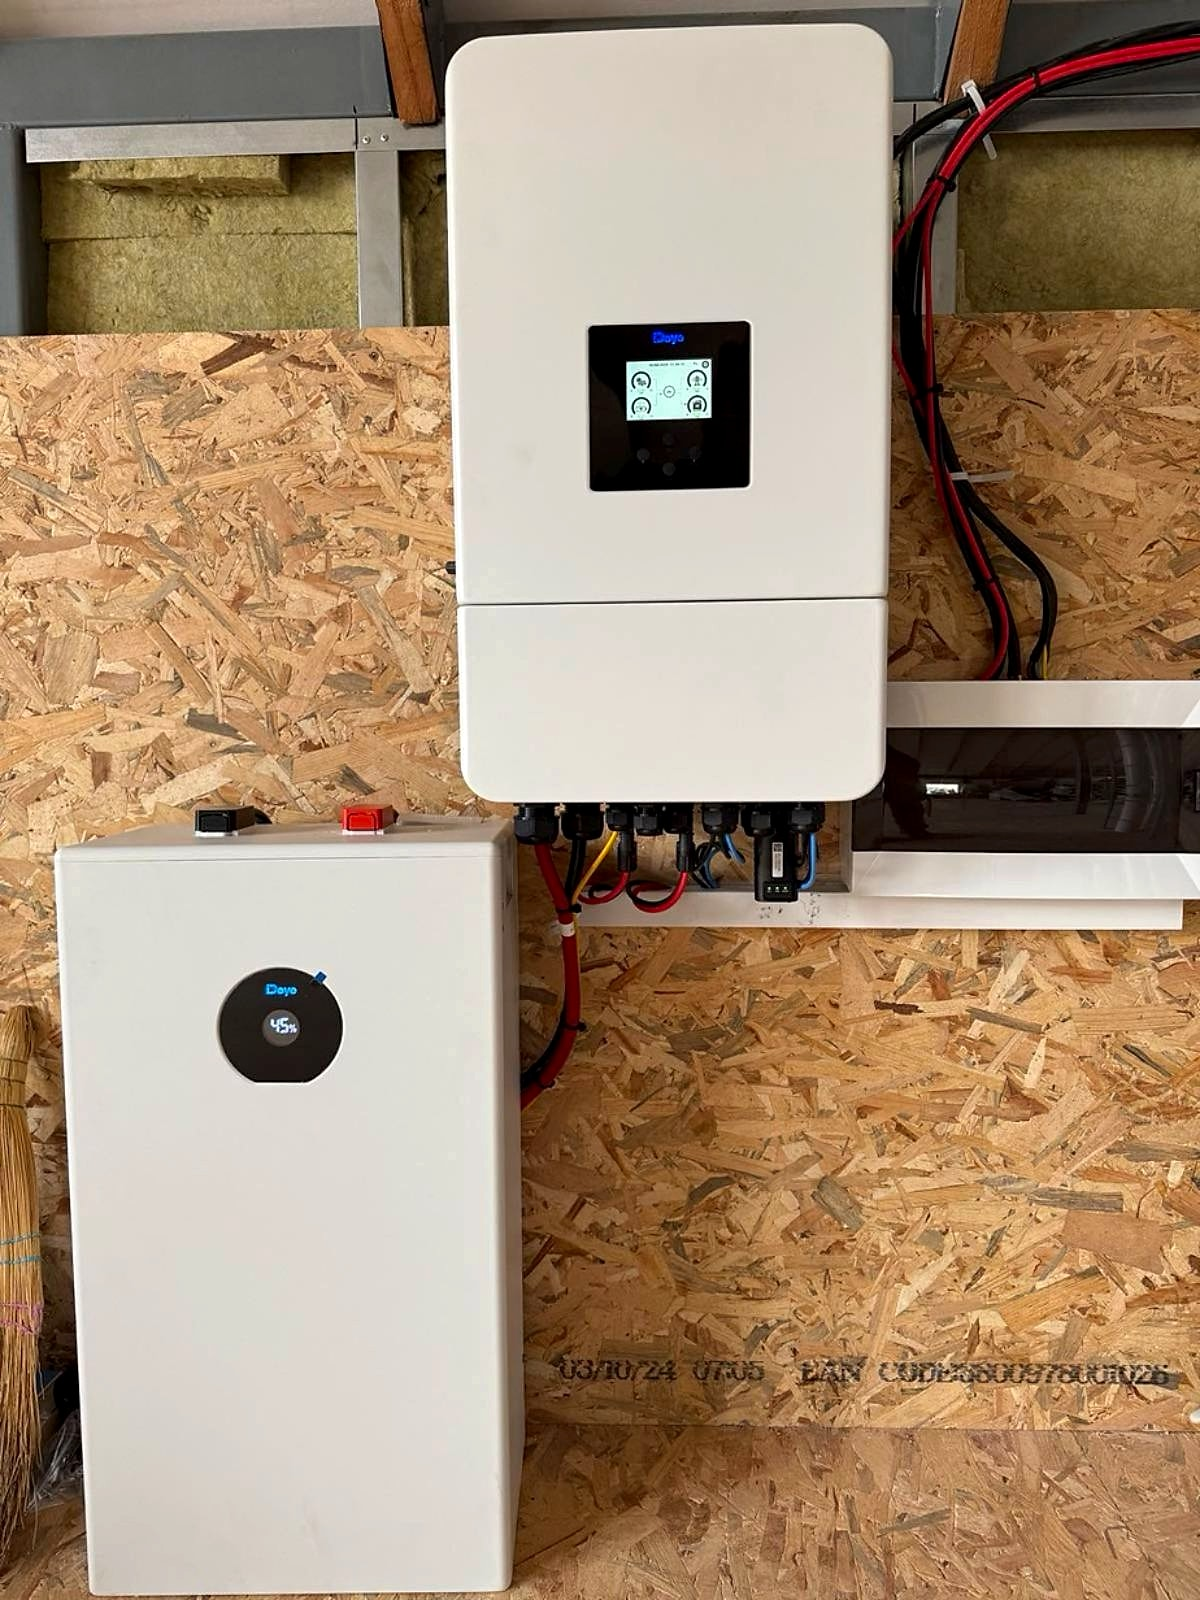
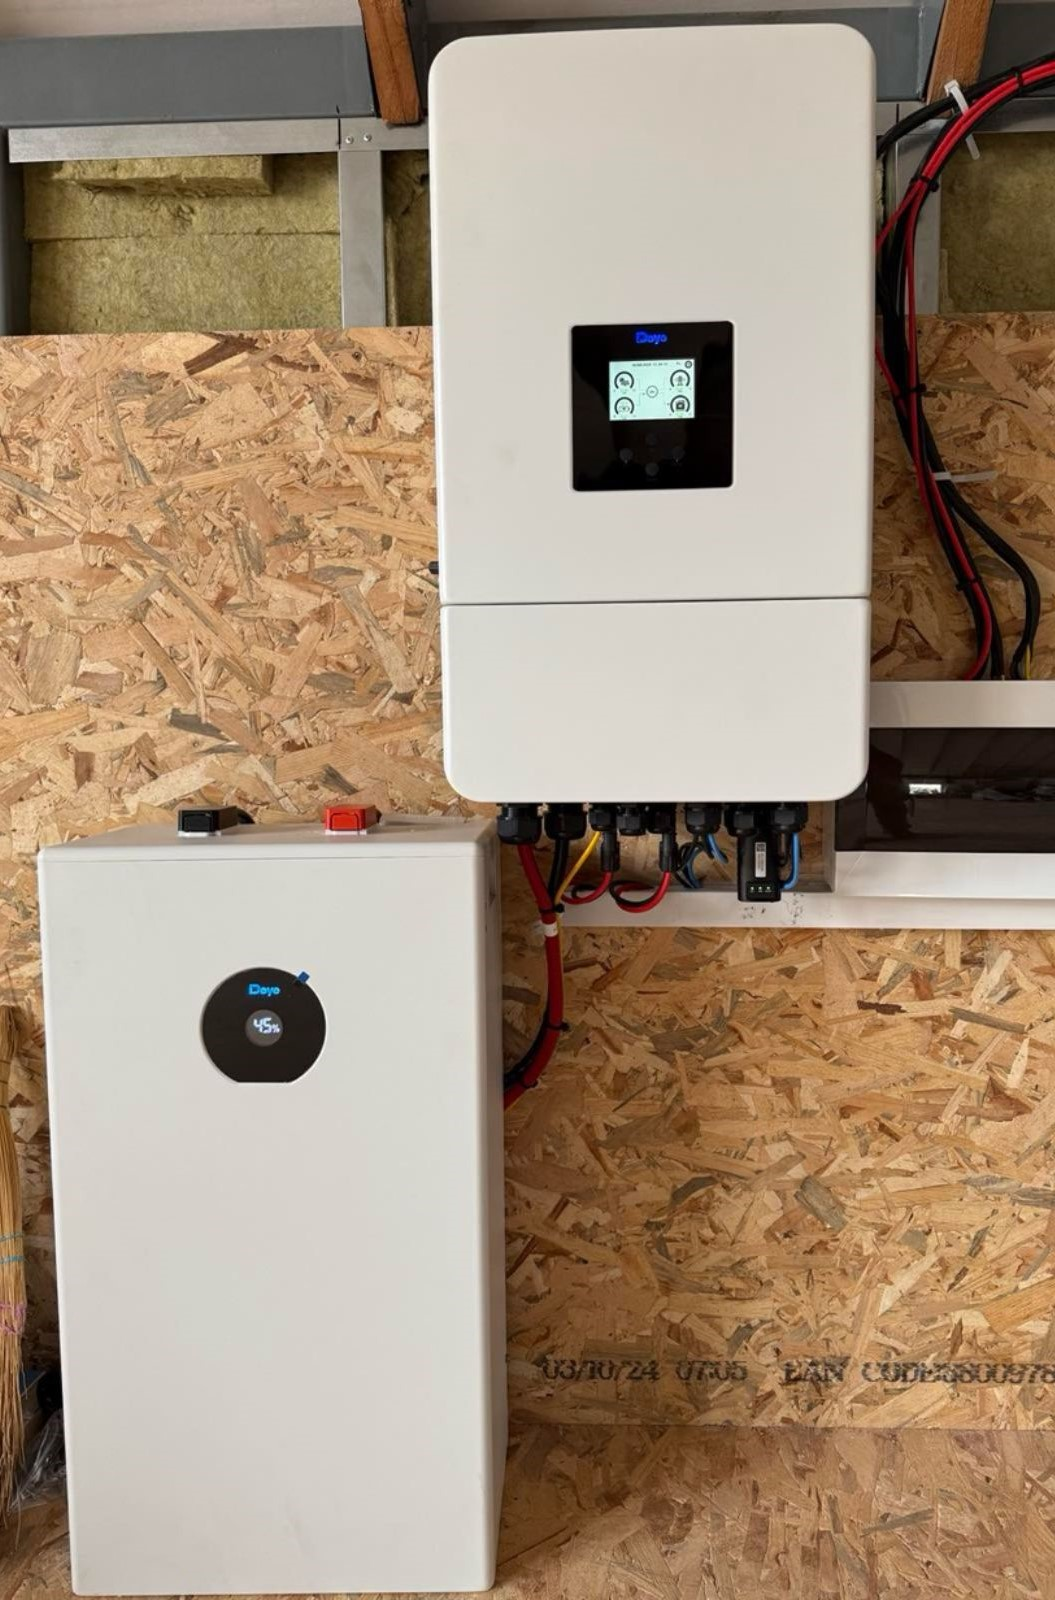
Show vertical portfolio photos fully

diff --git a/tests/site-content.test.js b/tests/site-content.test.js
@@ -292,6 +292,19 @@ portfolioImageSources.forEach((src) => {
   assert.ok(src.startsWith('assets/portfolio/'), `Portfolio image must come from assets/portfolio: ${src}`);
   assert.ok(fs.existsSync(path.join(__dirname, '..', src)), `Portfolio image file must exist: ${src}`);
 });
+[
+  'assets/portfolio/rodopi-portfolio-03-deye-inverter-battery.jpg',
+  'assets/portfolio/rodopi-portfolio-07-deye-inverter-storage.jpg',
+].forEach((src) => {
+  assert.match(
+    portfolioMatch[1],
+    new RegExp(`<div class="portfolio-item portfolio-item--contain">\\s*<img src="${src.replace(/\//g, '\\/')}"`),
+    `Vertical Deye portfolio image must use a contain card so it is visible fully: ${src}`
+  );
+});
+assert.match(css, /\.portfolio-item--contain img \{[\s\S]*object-fit: contain;[\s\S]*background:/, 'Vertical portfolio images must use contain fit with a stable background');
+assert.match(css, /\.portfolio-item--contain:hover img \{[\s\S]*transform: none;/, 'Contain portfolio images must not zoom and crop on hover');
+assert.match(css, /@media \(max-width: 768px\)[\s\S]*\.portfolio-item--contain img \{[\s\S]*height: 440px;/, 'Vertical portfolio images must stay tall enough to show fully on phones');
 assert.ok(
   !/portfolio\/[^"]*(worker|installer|people|person|human)[^"]*\.(jpg|png|webp)/i.test(portfolioMatch[1]),
   'Portfolio images must not include people-focused filenames'

diff --git a/styles.css b/styles.css
@@ -1315,8 +1315,16 @@ textarea:focus-visible {
   object-fit: contain;
   padding: 1rem;
 }
+.portfolio-item--contain img {
+  height: 320px;
+  object-fit: contain;
+  background:
+    radial-gradient(circle at center, rgba(245,158,11,.1), transparent 58%),
+    linear-gradient(135deg, #0F172A 0%, #1E293B 100%);
+}
 .portfolio-item--featured img { height: 100%; min-height: 400px; }
 .portfolio-item:hover img { transform: scale(1.05); }
+.portfolio-item--contain:hover img { transform: none; }
 
 .portfolio-item__info {
   position: absolute;
@@ -1758,6 +1766,7 @@ textarea:focus-visible {
   .product-detail__media img { min-height: 220px; }
   .portfolio__grid { grid-template-columns: 1fr 1fr; }
   .portfolio-item__info { transform: translateY(0); }
+  .portfolio-item--contain img { height: 440px; }
   .manufacturers__logos { grid-template-columns: repeat(2, minmax(0, 1fr)); }
   .portfolio-item--featured { grid-column: span 2; }
 

diff --git a/index.html b/index.html
@@ -488,7 +488,7 @@
             <span>Домашна ФЕЦ система</span>
           </div>
         </div>
-        <div class="portfolio-item">
+        <div class="portfolio-item portfolio-item--contain">
           <img src="assets/portfolio/rodopi-portfolio-03-deye-inverter-battery.jpg" alt="Deye хибриден инвертор с LiFePO4 батерия" loading="lazy" decoding="async" />
           <div class="portfolio-item__info">
             <span>Deye хибридна система</span>
@@ -512,7 +512,7 @@
             <span>Покривна ФЕЦ система</span>
           </div>
         </div>
-        <div class="portfolio-item">
+        <div class="portfolio-item portfolio-item--contain">
           <img src="assets/portfolio/rodopi-portfolio-07-deye-inverter-storage.jpg" alt="Deye инвертор и LiFePO4 батерия" loading="lazy" decoding="async" />
           <div class="portfolio-item__info">
             <span>Deye инвертор и LiFePO4 батерия</span>